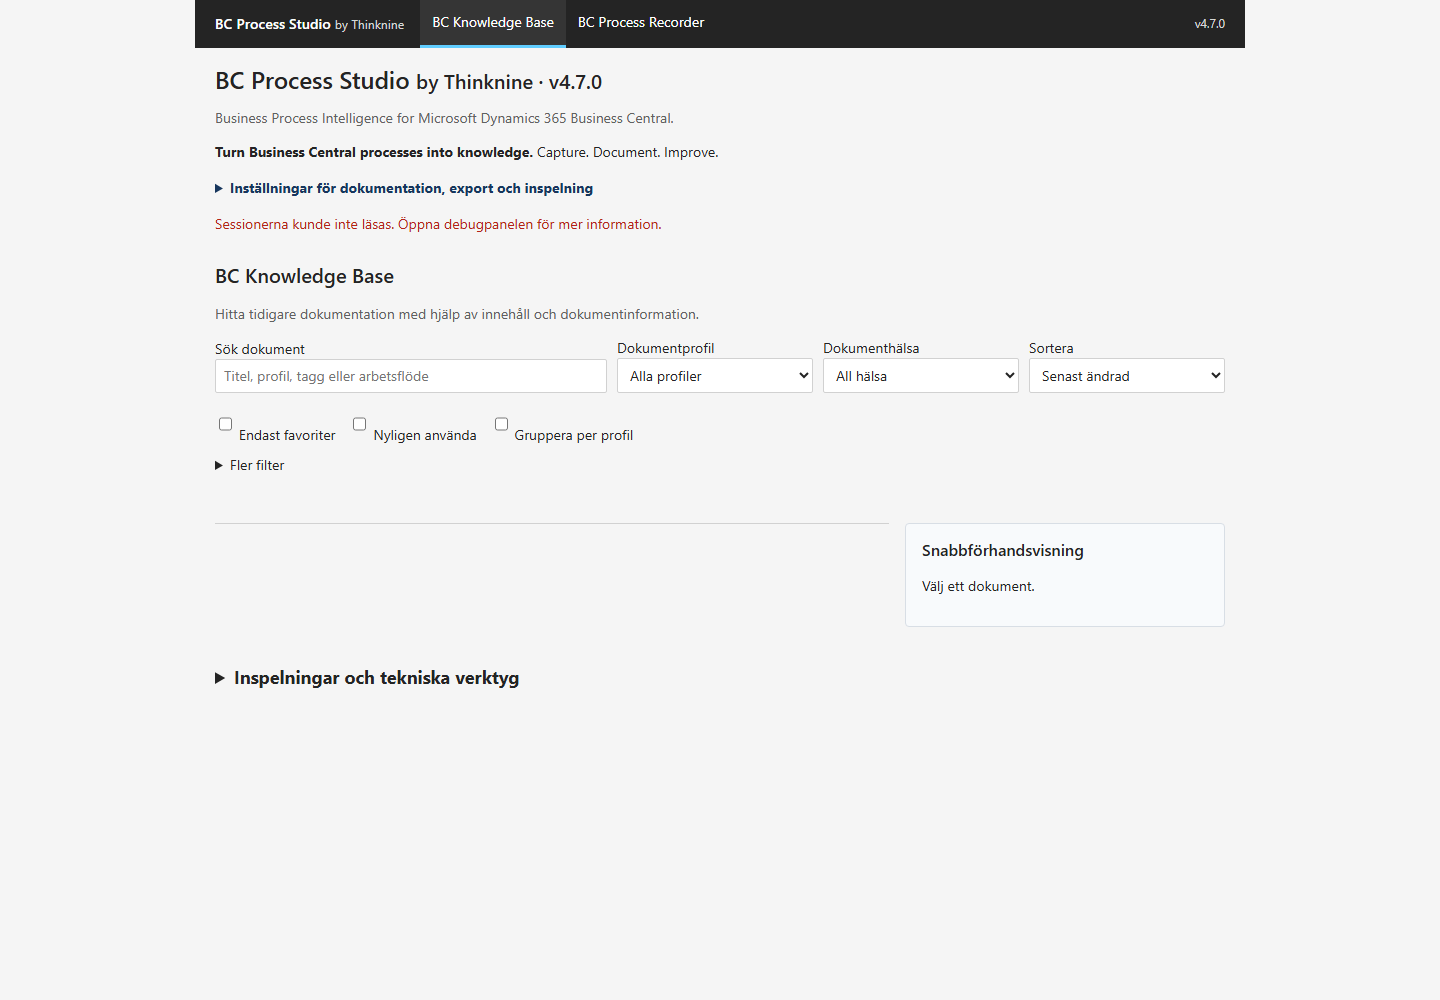
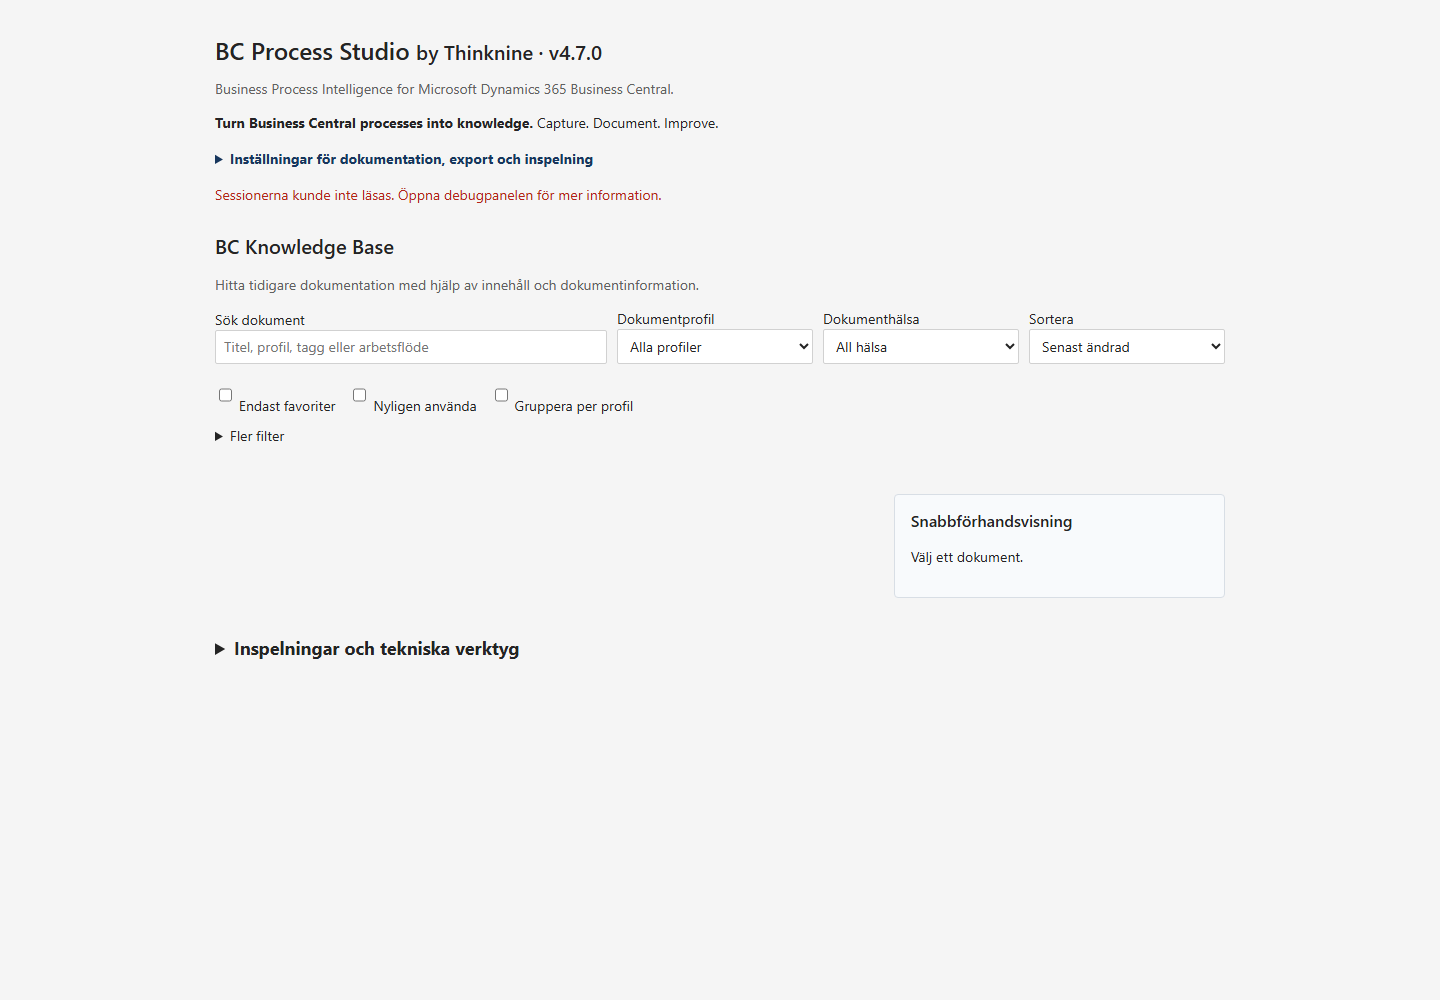
fix(v4.7): restore stable knowledge base layout

diff --git a/dist/design-system.css b/dist/design-system.css
@@ -128,28 +128,8 @@ th { height: 36px; color: var(--colorTextSecondary); font-weight: 600; backgroun
 td { height: 40px; border-bottom-color: var(--colorBorderSubtle) !important; }
 tbody tr:hover { background: var(--colorBrandSubtle); }
 
-.library-layout { grid-template-columns: minmax(0, 1fr) minmax(260px, 320px) !important; }
-.library-results, .library-group-cards { display: block !important; border-top: 1px solid var(--colorBorderDefault); }
-.library-card {
-  display: grid;
-  grid-template-columns: 28px minmax(160px, 1.2fr) minmax(150px, .8fr) minmax(210px, 1fr) auto;
-  align-items: center;
-  gap: var(--space12);
-  min-height: 48px;
-  padding: var(--space8) var(--space12) !important;
-  border: 0 !important;
-  border-bottom: 1px solid var(--colorBorderSubtle) !important;
-  border-radius: 0 !important;
-}
+.library-card { border-radius: var(--radiusMedium) !important; box-shadow: none !important; }
 .library-card:hover { background: var(--colorBrandSubtle); }
-.library-card-heading { display: contents !important; }
-.library-card h4 { grid-column: 2; }
-.library-card-heading > div:last-child { grid-column: 5; grid-row: 1; }
-.library-card > p { margin: 0; }
-.library-card .library-profile { grid-column: 3; }
-.library-card .library-tags { grid-column: 4; margin: 0; }
-.library-card .library-confirmations { display: none; }
-.library-card > button, .library-card > .primary { grid-column: 5; }
 .library-preview, .document-health, .review-document-fields { border-radius: var(--radiusMedium) !important; box-shadow: none !important; }
 .library-batch-toolbar, .review-toolbar, .document-toolbar { border-radius: 0 !important; background: var(--colorBackgroundSurface) !important; }
 
@@ -176,13 +156,9 @@ dialog::backdrop { background: rgb(0 0 0 / 40%) !important; }
   .app-shell-bar { flex-wrap: wrap; padding: var(--space8) var(--space12); gap: var(--space8); }
   .app-shell-nav { order: 3; width: 100%; min-height: 36px; }
   .app-shell-context { margin-left: auto; }
-  .library-card { grid-template-columns: 28px minmax(0, 1fr) auto; }
-  .library-card .library-profile, .library-card .library-tags { grid-column: 2; }
-  .library-card-heading > div:last-child, .library-card > button, .library-card > .primary { grid-column: 3; }
 }
 @media (max-width: 700px) {
   .app-shell-context { display: none; }
-  .library-card { display: grid; }
   .review-card { grid-template-columns: 36px minmax(0, 1fr) !important; }
   .review-actions { grid-column: 1 / -1; }
 }

diff --git a/src/ui/design-system.css b/src/ui/design-system.css
@@ -128,28 +128,8 @@ th { height: 36px; color: var(--colorTextSecondary); font-weight: 600; backgroun
 td { height: 40px; border-bottom-color: var(--colorBorderSubtle) !important; }
 tbody tr:hover { background: var(--colorBrandSubtle); }
 
-.library-layout { grid-template-columns: minmax(0, 1fr) minmax(260px, 320px) !important; }
-.library-results, .library-group-cards { display: block !important; border-top: 1px solid var(--colorBorderDefault); }
-.library-card {
-  display: grid;
-  grid-template-columns: 28px minmax(160px, 1.2fr) minmax(150px, .8fr) minmax(210px, 1fr) auto;
-  align-items: center;
-  gap: var(--space12);
-  min-height: 48px;
-  padding: var(--space8) var(--space12) !important;
-  border: 0 !important;
-  border-bottom: 1px solid var(--colorBorderSubtle) !important;
-  border-radius: 0 !important;
-}
+.library-card { border-radius: var(--radiusMedium) !important; box-shadow: none !important; }
 .library-card:hover { background: var(--colorBrandSubtle); }
-.library-card-heading { display: contents !important; }
-.library-card h4 { grid-column: 2; }
-.library-card-heading > div:last-child { grid-column: 5; grid-row: 1; }
-.library-card > p { margin: 0; }
-.library-card .library-profile { grid-column: 3; }
-.library-card .library-tags { grid-column: 4; margin: 0; }
-.library-card .library-confirmations { display: none; }
-.library-card > button, .library-card > .primary { grid-column: 5; }
 .library-preview, .document-health, .review-document-fields { border-radius: var(--radiusMedium) !important; box-shadow: none !important; }
 .library-batch-toolbar, .review-toolbar, .document-toolbar { border-radius: 0 !important; background: var(--colorBackgroundSurface) !important; }
 
@@ -176,13 +156,9 @@ dialog::backdrop { background: rgb(0 0 0 / 40%) !important; }
   .app-shell-bar { flex-wrap: wrap; padding: var(--space8) var(--space12); gap: var(--space8); }
   .app-shell-nav { order: 3; width: 100%; min-height: 36px; }
   .app-shell-context { margin-left: auto; }
-  .library-card { grid-template-columns: 28px minmax(0, 1fr) auto; }
-  .library-card .library-profile, .library-card .library-tags { grid-column: 2; }
-  .library-card-heading > div:last-child, .library-card > button, .library-card > .primary { grid-column: 3; }
 }
 @media (max-width: 700px) {
   .app-shell-context { display: none; }
-  .library-card { display: grid; }
   .review-card { grid-template-columns: 36px minmax(0, 1fr) !important; }
   .review-actions { grid-column: 1 / -1; }
 }

diff --git a/src/ui/dashboard.html b/src/ui/dashboard.html
@@ -187,14 +187,6 @@ table{width:100%;border-collapse:collapse}th,td{text-align:left;padding:9px;bord
 <link rel="stylesheet" href="design-system.css">
 </head>
 <body>
-<header class="app-shell-bar">
-  <div class="app-shell-brand">BC Process Studio <small>by Thinknine</small></div>
-  <nav class="app-shell-nav" aria-label="Huvudnavigering">
-    <a href="#documentLibraryTitle" aria-current="page">BC Knowledge Base</a>
-    <a href="#sessionTools">BC Process Recorder</a>
-  </nav>
-  <div class="app-shell-context" aria-label="Produktversion">v__APP_VERSION__</div>
-</header>
 <h1>BC Process Studio <small>by Thinknine · v__APP_VERSION__</small></h1>
 <p class="muted">Business Process Intelligence for Microsoft Dynamics 365 Business Central.</p>
 <p><strong>Turn Business Central processes into knowledge.</strong> Capture. Document. Improve.</p>

diff --git a/dist/dashboard.html b/dist/dashboard.html
@@ -187,14 +187,6 @@ table{width:100%;border-collapse:collapse}th,td{text-align:left;padding:9px;bord
 <link rel="stylesheet" href="design-system.css">
 </head>
 <body>
-<header class="app-shell-bar">
-  <div class="app-shell-brand">BC Process Studio <small>by Thinknine</small></div>
-  <nav class="app-shell-nav" aria-label="Huvudnavigering">
-    <a href="#documentLibraryTitle" aria-current="page">BC Knowledge Base</a>
-    <a href="#sessionTools">BC Process Recorder</a>
-  </nav>
-  <div class="app-shell-context" aria-label="Produktversion">v4.7.0</div>
-</header>
 <h1>BC Process Studio <small>by Thinknine · v4.7.0</small></h1>
 <p class="muted">Business Process Intelligence for Microsoft Dynamics 365 Business Central.</p>
 <p><strong>Turn Business Central processes into knowledge.</strong> Capture. Document. Improve.</p>

diff --git a/tests/design-system.test.js b/tests/design-system.test.js
@@ -30,9 +30,6 @@ for (const file of [
 }
 
 const dashboard = read("src/ui/dashboard.html");
-assert.ok(dashboard.includes('class="app-shell-bar"'));
-assert.ok(dashboard.includes('aria-label="Huvudnavigering"'));
-assert.ok(dashboard.includes('aria-current="page"'));
 assert.ok(!dashboard.includes("BC Process Maps</a>"), "unimplemented modules must not be exposed");
 
 assert.ok(css.includes("prefers-reduced-motion: reduce"));

diff --git a/dist/docs/UI_DESIGN_SYSTEM.md b/dist/docs/UI_DESIGN_SYSTEM.md
@@ -61,9 +61,8 @@ identifiers and technical values use Cascadia Mono or Consolas fallbacks.
 - Primary commands use the brand-filled treatment. Secondary commands use a
   neutral surface. Destructive commands use explicit danger text and border.
 - Controls share height, border, radius, disabled state and focus treatment.
-- The dashboard shell provides product identity, implemented-area navigation
-  and version context. The library is a compact list with a secondary preview
-  FactBox rather than a grid of decorative cards.
+- The dashboard heading provides product identity and version context. The
+  library keeps its scannable card grid with a secondary preview FactBox.
 - Review Studio is a full-height document workspace with command bars, tabs,
   compact status information and a secondary guidance panel.
 - Native dialogs remain the modal primitive and retain existing focus handling.
@@ -91,7 +90,7 @@ focus on close. Never use colour as the sole status signal.
 
 | Existing area | Shared pattern | Status |
 | --- | --- | --- |
-| Dashboard / Knowledge Base | Shell, compact list, command bar, FactBox | Migrated |
+| Dashboard / Knowledge Base | Heading, card grid, command bar, FactBox | Migrated |
 | Review Studio | Document workspace, tabs, action bar, status strip | Migrated |
 | Document Generator preview | Document canvas, view action bar, FactBox | Migrated |
 | Recorder popup | Compact task dialog and persistent status | Migrated |

diff --git a/docs/UI_DESIGN_SYSTEM.md b/docs/UI_DESIGN_SYSTEM.md
@@ -61,9 +61,8 @@ identifiers and technical values use Cascadia Mono or Consolas fallbacks.
 - Primary commands use the brand-filled treatment. Secondary commands use a
   neutral surface. Destructive commands use explicit danger text and border.
 - Controls share height, border, radius, disabled state and focus treatment.
-- The dashboard shell provides product identity, implemented-area navigation
-  and version context. The library is a compact list with a secondary preview
-  FactBox rather than a grid of decorative cards.
+- The dashboard heading provides product identity and version context. The
+  library keeps its scannable card grid with a secondary preview FactBox.
 - Review Studio is a full-height document workspace with command bars, tabs,
   compact status information and a secondary guidance panel.
 - Native dialogs remain the modal primitive and retain existing focus handling.
@@ -91,7 +90,7 @@ focus on close. Never use colour as the sole status signal.
 
 | Existing area | Shared pattern | Status |
 | --- | --- | --- |
-| Dashboard / Knowledge Base | Shell, compact list, command bar, FactBox | Migrated |
+| Dashboard / Knowledge Base | Heading, card grid, command bar, FactBox | Migrated |
 | Review Studio | Document workspace, tabs, action bar, status strip | Migrated |
 | Document Generator preview | Document canvas, view action bar, FactBox | Migrated |
 | Recorder popup | Compact task dialog and persistent status | Migrated |

diff --git a/CHANGELOG.md b/CHANGELOG.md
@@ -6,7 +6,7 @@
   Document Generator preview, diagnostics and technical report workspace with a
   central Fluent-compatible, Business Central-inspired design system.
 - Added semantic colour, typography, spacing, control, focus and status tokens;
-  compact operational list presentation; responsive rules; reduced-motion and
+  consistent document-card presentation; responsive rules; reduced-motion and
   forced-colour safeguards; and automated build/design-contract coverage.
 - Renamed and repositioned the user-facing product as **BC Process Studio by Thinknine**.
 - Introduced the descriptor, tagline, supporting message and canonical module vocabulary.

diff --git a/dist/CHANGELOG.md b/dist/CHANGELOG.md
@@ -6,7 +6,7 @@
   Document Generator preview, diagnostics and technical report workspace with a
   central Fluent-compatible, Business Central-inspired design system.
 - Added semantic colour, typography, spacing, control, focus and status tokens;
-  compact operational list presentation; responsive rules; reduced-motion and
+  consistent document-card presentation; responsive rules; reduced-motion and
   forced-colour safeguards; and automated build/design-contract coverage.
 - Renamed and repositioned the user-facing product as **BC Process Studio by Thinknine**.
 - Introduced the descriptor, tagline, supporting message and canonical module vocabulary.

diff --git a/dist/docs/RELEASE_NOTES_4.7.0.md b/dist/docs/RELEASE_NOTES_4.7.0.md
@@ -4,7 +4,7 @@
 
 BC Process Studio now uses one shared Fluent-compatible design system across the
 implemented extension surfaces. The result is denser and more task-oriented,
-with Business Central-inspired action bars, compact Knowledge Base rows,
+with Business Central-inspired action bars, consistent Knowledge Base cards,
 consistent fields and dialogs, full-height review workspaces, visible keyboard
 focus, status treatments, reduced-motion support and narrower-window layouts.
 

diff --git a/docs/RELEASE_NOTES_4.7.0.md b/docs/RELEASE_NOTES_4.7.0.md
@@ -4,7 +4,7 @@
 
 BC Process Studio now uses one shared Fluent-compatible design system across the
 implemented extension surfaces. The result is denser and more task-oriented,
-with Business Central-inspired action bars, compact Knowledge Base rows,
+with Business Central-inspired action bars, consistent Knowledge Base cards,
 consistent fields and dialogs, full-height review workspaces, visible keyboard
 focus, status treatments, reduced-motion support and narrower-window layouts.
 
